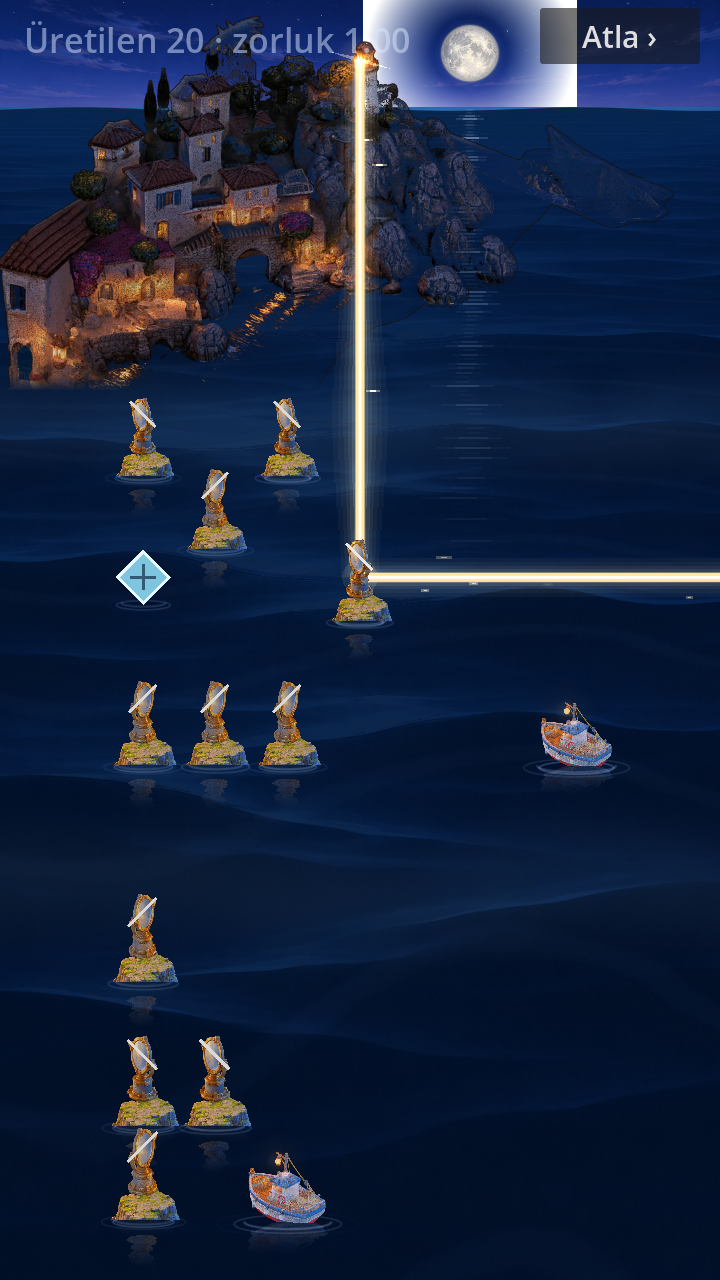
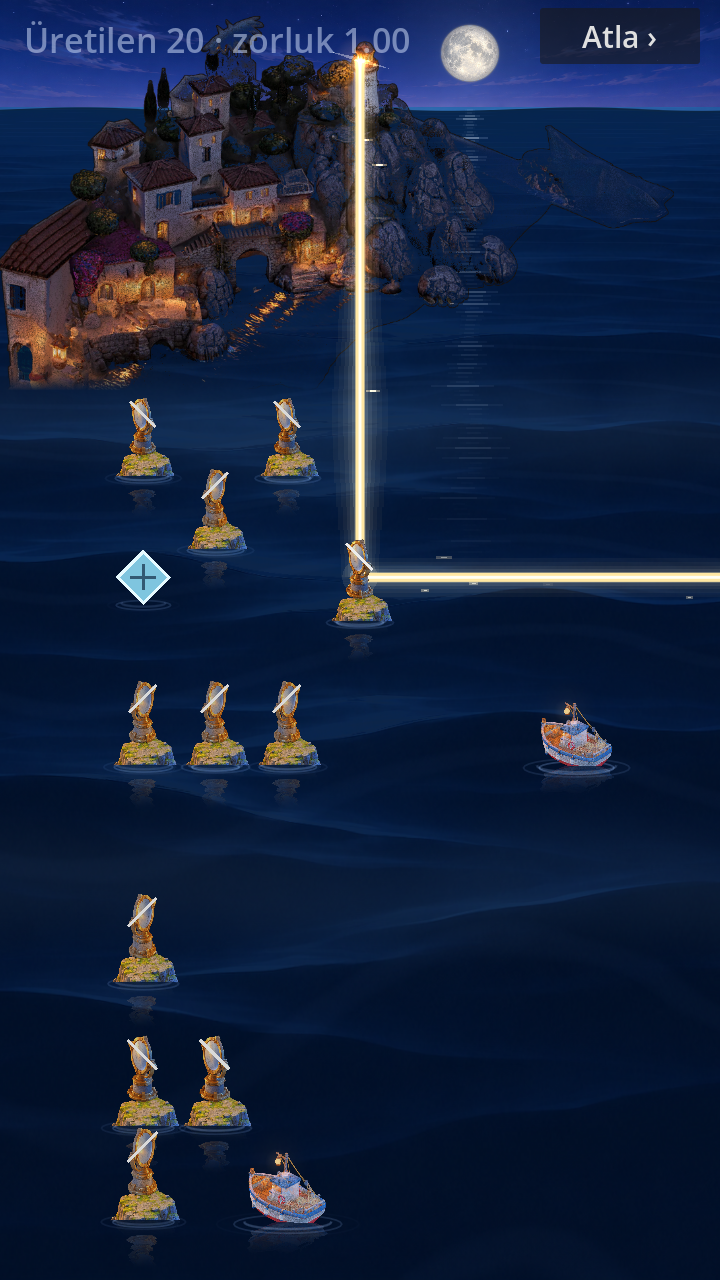
Otomatik commit: DURUM.md guncellendi - 2026-09-15 22:23

Changed region(s): [[0.4889, 0.0, 0.825, 0.0938]]

diff --git a/DURUM.md b/DURUM.md
@@ -384,6 +384,37 @@ Kapsam dışı: Ateşböceği prototipi (İŞ 2), görsel üretimi, ana ekran, s
 reklam, sis/yağmur/renkli ışık varyasyonları, bölüm üreteci.
 
 ## KOD RAPORU (KOD yazar)
+**İŞ 12 — Okunurluk turu · kod yazıldı, telefonda test edilmedi** (2026-09-15)
+
+**K9 kapandı:** diyorama prompt'u (promptlar.md madde 0) `gorseller/kayit.md`'ye tam metin işlendi.
+
+**1. Ayna 1.3 kat** — önce hesap: ×1.3 büyütünce ayna yığını 0.985 → 1.28 hücre; 25 bölümün 13'ünde üst üste iki
+ayna biniyordu (19 çift, hepsi dikey ayna-ayna). 0 için dikey ayna komşuları arasına **0.3 hücre** boşluk gerekti →
+9:16'da hücre 58.7 px'e düşüyordu (≥60 kuralı). Hücre hedefini gevşetmeden iki başka ayarla alan açıldı:
+diyorama ölçeği 0.68 → **0.66** (fener 81.2 px, ≥80) ve alt yazı şeridi 80 → **60 px**. Bölüm yeniden üretilmedi
+- Sonuç: **çakışma 0/25** · 9:16 en küçük hücre **62.4 px** (≥60) · 20:9 72.0 px · K3 0 px · K4 boşluğu 6 px
+- **Ayna boyu** (kaya + ayna, görünür): 9:16 **68-80 px** (üst satır G2 0.85 · alt satır) · 20:9 78-92 px.
+  Yalnız ayna sprite'ı: 9:16 50-58 px · 20:9 57-67 px. Taban kayası genişliği 1.17 hücre (hücreyi taşıyor)
+- Yön çizgisi korundu
+
+**2. Işın:** çekirdek kalınlığı ve parlaklığı mesafeden bağımsız (taban **6.5 px**, `core_px = max(6.5, 10·k)`);
+sönüm yalnız halede (uzakta %65'e iner), hale en az çekirdeğin 3.2 katı. Ölçülen (Bölüm 1, lambadan inen uzun ışın,
+lamba yanından en uzak uca): **10 px sabit**, 9:16 ve 20:9. En küçük hücreli bölümde hesap: 6.93 px; hale 33 px (4.8×)
+
+**3. Ay:** disk kenarı alfa geçişiyle yumuşadı ve kenara doğru gök rengine karışıyor (gölgelendirici); arkada geniş
+soluk hale. İlk denemede hale sert kenarlı KARE çıktı (gradyan nokta sırası hatası), gözle görülüp düzeltildi.
+Ay yerleşimi, ayın altında ufuk bandını diyoramanın örtmediği yeri seçiyor → **ay yolu ayın sütunundan, ufuktan başlıyor**
+
+**Ekran görüntüleri:** `gorseller/diyorama_deneme/is10_kanit/is12_b{1,9,25}_{1280,1600}.png` (kolay çözülmüş,
+bölücülü çözülmüş, zor çözülmemiş). Gözle bakıldı
+
+**Test edilen:** motor testi 25/25 · İŞ 8 davranış probu OK · çakışma 0/25 · K3/K4 probu · PC 280 fps
+**Test edilmeyen:** telefonda açılmadı (APK sırası). Ayna dönüş animasyonu büyük boyda canlı izlenmedi
+
+**APK için hatırlatma:** `export_presets.cfg` bana kapalı — paket adı `com.volkagames.fenerbekcisi`, sürüm 0.1/kod 1,
+yol `C:/Altyapi/oyunlar/fener/apk/fener-0.1-debug.apk` kurucu tarafından girilmeli (İŞ 6 raporu). Komut:
+`Godot_v4.7.1-stable_win64_console.exe --headless --path oyunlar/fener/proto --export-debug "Android" <yol>`
+
 **İŞ 10 — Diyorama çerçevesi · kod yazıldı, telefonda test edilmedi** (2026-09-15)
 (Aşağıdaki "İŞ 10 — DURDU" raporunun devamı; E1-E3 kararlarıyla yapıldı. Tek açık: K9'da diyorama prompt'u)
 
